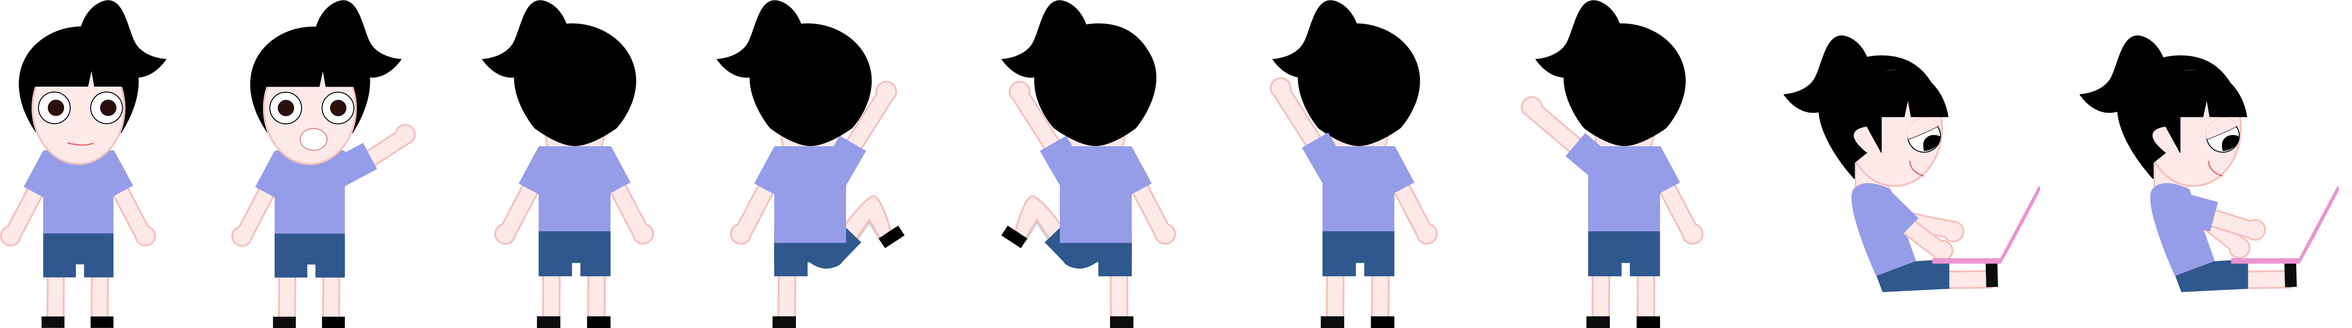
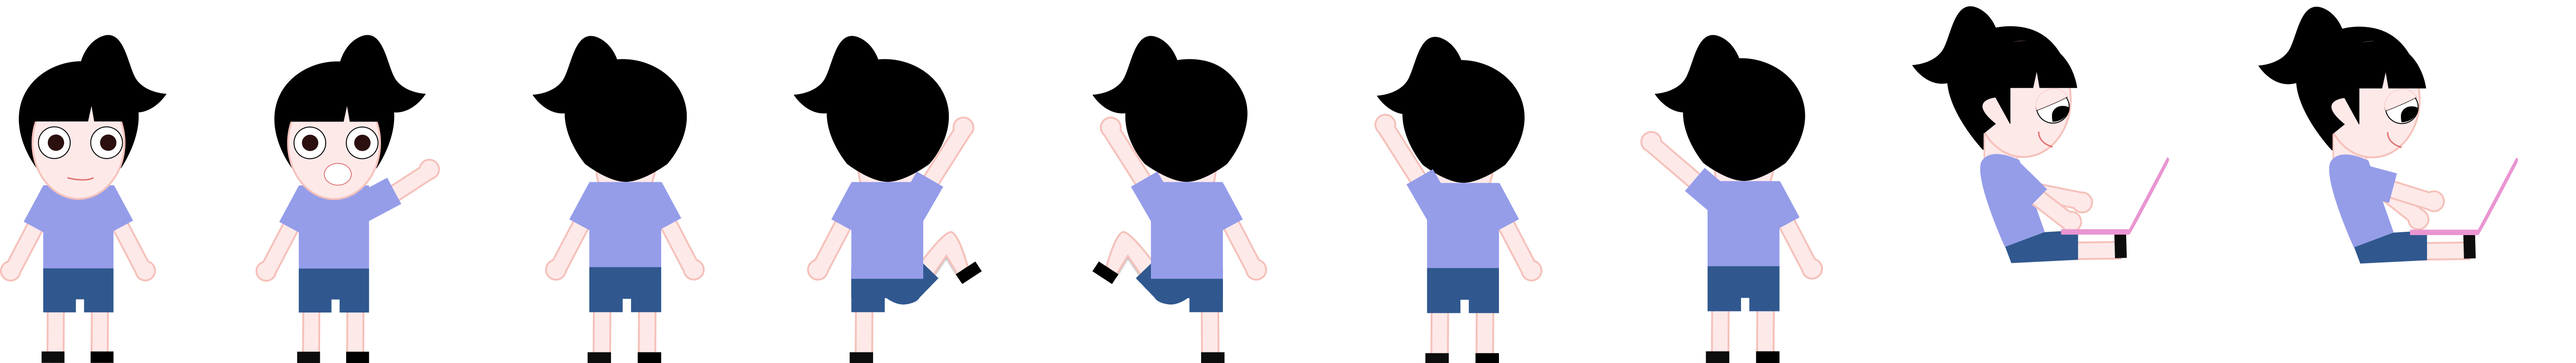
feat: select celia frame logics

diff --git a/src/components/celia-animation.js b/src/components/celia-animation.js
@@ -1,18 +1,85 @@
-import React from "react"
+import React, { useEffect, useState } from "react"
 import styles from "./celia-animation.module.scss"
 import celiaFramesImage from "../static/img/celia-frames.png"
 
 export default function CeliaAnimation() {
-  const celiaAnimation = React.createRef()
-  const celiaFrames = React.createRef()
+  const [celiaAnimationFrame, setCeliaAnimationFrame] = useState("hello")
 
-  window.onscroll = () => moveCeliaDownAndUp()
+  const celiaAnimation = React.useRef()
+  const celiaFrames = React.useRef()
+  const sayHelloIntervalRef = React.useRef()
+  const climbLadderIntervalRef = React.useRef()
 
-  const moveCeliaDownAndUp = () => {
-    const celiaStyle = celiaAnimation.current.style
-    if (window.scrollY<=290) celiaStyle.setProperty('transform', `translateY(${window.scrollY/8}rem)`)
-    else if (window.scrollY === 0) celiaStyle.setProperty('transform', `translateY(0rem)`)
-    else celiaStyle.setProperty('transform', `translateY(36rem)`)
+  const celiaFramesPosition = {
+    front: 3.5,
+    frontHello: -8.4,
+    backOne: -22,
+    backRightSide: -34.6,
+    backLeftSide: -48,
+    backTwo: -61.2,
+    backThree: -74.3,
+    sitOne: -89.3,
+    sitTwo: -105.6
+  }
+
+  // Subscribe to animations effect and update UI
+  useEffect(() => {
+    const wave = () => {
+      celiaFrames.current.style.setProperty('--animation-frame-position', 
+        `${celiaFramesPosition.frontHello}rem`)
+      setTimeout(() => {
+        celiaFrames.current.style.setProperty('--animation-frame-position', 
+        `${celiaFramesPosition.front}rem`)
+      }, 1000)
+    }
+  
+    const climb = () => {
+      const currentFrameValue = celiaFrames.current.style.getPropertyValue('--animation-frame-position')
+      const setFramePosition = currentFrameValue === `${celiaFramesPosition.backRightSide}rem` ?
+        celiaFramesPosition.backLeftSide : celiaFramesPosition.backRightSide
+      celiaFrames.current.style.setProperty('--animation-frame-position', `${setFramePosition}rem`)
+    }
+
+    if (celiaAnimationFrame === "front") celiaFrames.current.style.setProperty('--animation-frame-position', `${celiaFramesPosition.front}rem`)
+    else if (celiaAnimationFrame === "hello") {
+      celiaFrames.current.style.setProperty('--animation-frame-position', `${celiaFramesPosition.front}rem`)
+      const helloIntervalId = setInterval(() => wave(), 6000)
+      sayHelloIntervalRef.current = helloIntervalId
+    } else if (celiaAnimationFrame === "climb") {
+      const climbIntervalId = setInterval(() => climb(), 1000)
+      climbLadderIntervalRef.current = climbIntervalId
+    } else if (celiaAnimationFrame === "back") {
+      celiaFrames.current.style.setProperty('--animation-frame-position', `${celiaFramesPosition.backOne}rem`)
+    }
+
+    return () => {
+      clearInterval(sayHelloIntervalRef.current)
+      clearInterval(climbLadderIntervalRef.current)
+    }
+  }, [celiaAnimationFrame, celiaFramesPosition])
+
+  window.onscroll = () => {
+    const scrollingValueWithSensitivity = window.scrollY/8
+    moveCeliaDownAndUp(scrollingValueWithSensitivity)
+    setCeliaFrame(scrollingValueWithSensitivity)
+  }
+
+  const moveCeliaDownAndUp = (scrollingValue) => {
+    // Start movement
+    if (scrollingValue > 3 && scrollingValue <= 35)
+      celiaAnimation.current.style.setProperty('transform', `translateY(${scrollingValue}rem)`)
+    // Ending position
+    else if (scrollingValue > 35) 
+      celiaAnimation.current.style.setProperty('transform', `translateY(36rem)`)
+    // Initial position. Default.
+    else celiaAnimation.current.style.setProperty('transform', `translateY(0rem)`)
+  }
+
+  const setCeliaFrame = (scrollingValue) => {
+    if (scrollingValue === 0) setTimeout(() => setCeliaAnimationFrame("hello"), 3000) // Delay for waiting the scroll up
+    else if (scrollingValue > 0 && scrollingValue <= 5) setCeliaAnimationFrame("back")
+    else if (scrollingValue > 5 && scrollingValue < 35) setCeliaAnimationFrame("climb")
+    else if (scrollingValue > 35) setTimeout(() => setCeliaAnimationFrame("front"), 3000) // Delay for waiting the scroll down
   }
 
   return(

diff --git a/src/components/celia-animation.module.scss b/src/components/celia-animation.module.scss
@@ -1,3 +1,8 @@
+:root {
+  // default
+  --animation-frame-position: 3.8rem;
+}
+
 #celia-animation {
   position: absolute;
   top: 18rem;
@@ -18,11 +23,11 @@
 
 .celia {
   height: 17rem;
-  width: 13rem;
+  width: 15.5rem;
   overflow: hidden;
 }
 
 .celia img {
   height: 100%;
-  padding-left: 2.5rem;
+  margin-left: var(--animation-frame-position);
 }
